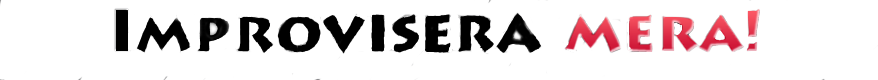
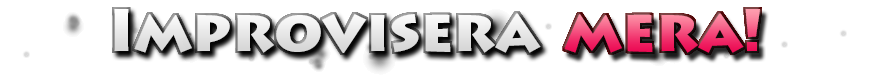
Minor graphical changes

diff --git a/lighttheme.css b/lighttheme.css
@@ -71,7 +71,7 @@ ul
     padding: 30px;
     padding-top: 15px;
     float: left;
-    background: rgba(226, 220, 220, 0.6);
+    background: rgba(255, 255, 255, 0.7);
     width: 200px;
     height: 100px;
     transition: all 0.6s;
@@ -84,9 +84,9 @@ ul
 .insideMainContent 
 {
     padding: 60px;
-    background: rgba(226, 220, 220, 0.6);
+    background: rgba(255, 255, 255, 0.7);
     width: 210px;
-    height: 515px;
+    height: 555px;
     float: left;
 }
 
@@ -96,7 +96,7 @@ ul
     margin-top: 150px;
     width: 800px;
     height: 50%;
-    background: rgba(226, 220, 220, 0.6);
+    background: rgba(255, 255, 255, 0.7);
 }
 
 .HOchO 

diff --git a/style.css b/style.css
@@ -11,10 +11,6 @@ body {
     margin: auto;
 }
 
-#headerImg::after {
-    content: url(Improviseramera_dark.png);
-}
-
 #mainHeaderDiv {
     text-align: center;
     top:25px;
@@ -83,21 +79,12 @@ ul
 
 .insideMainContent 
 {
+    /*text-align: justify;*/
     padding: 60px;
     background: rgba(0, 0, 0, 0.6);
     width: 210px;
-    height: 555px;
+    height: 515px;
     float: left;
-}
-
-.projectContent {
-
-    display: inline-block;
-    margin-left: 200px;
-    margin-top: 150px;
-    width: 800px;
-    height: 50%;
-    background: rgba(0, 0, 0, 0.6);
 }
 
 .HOchO 
